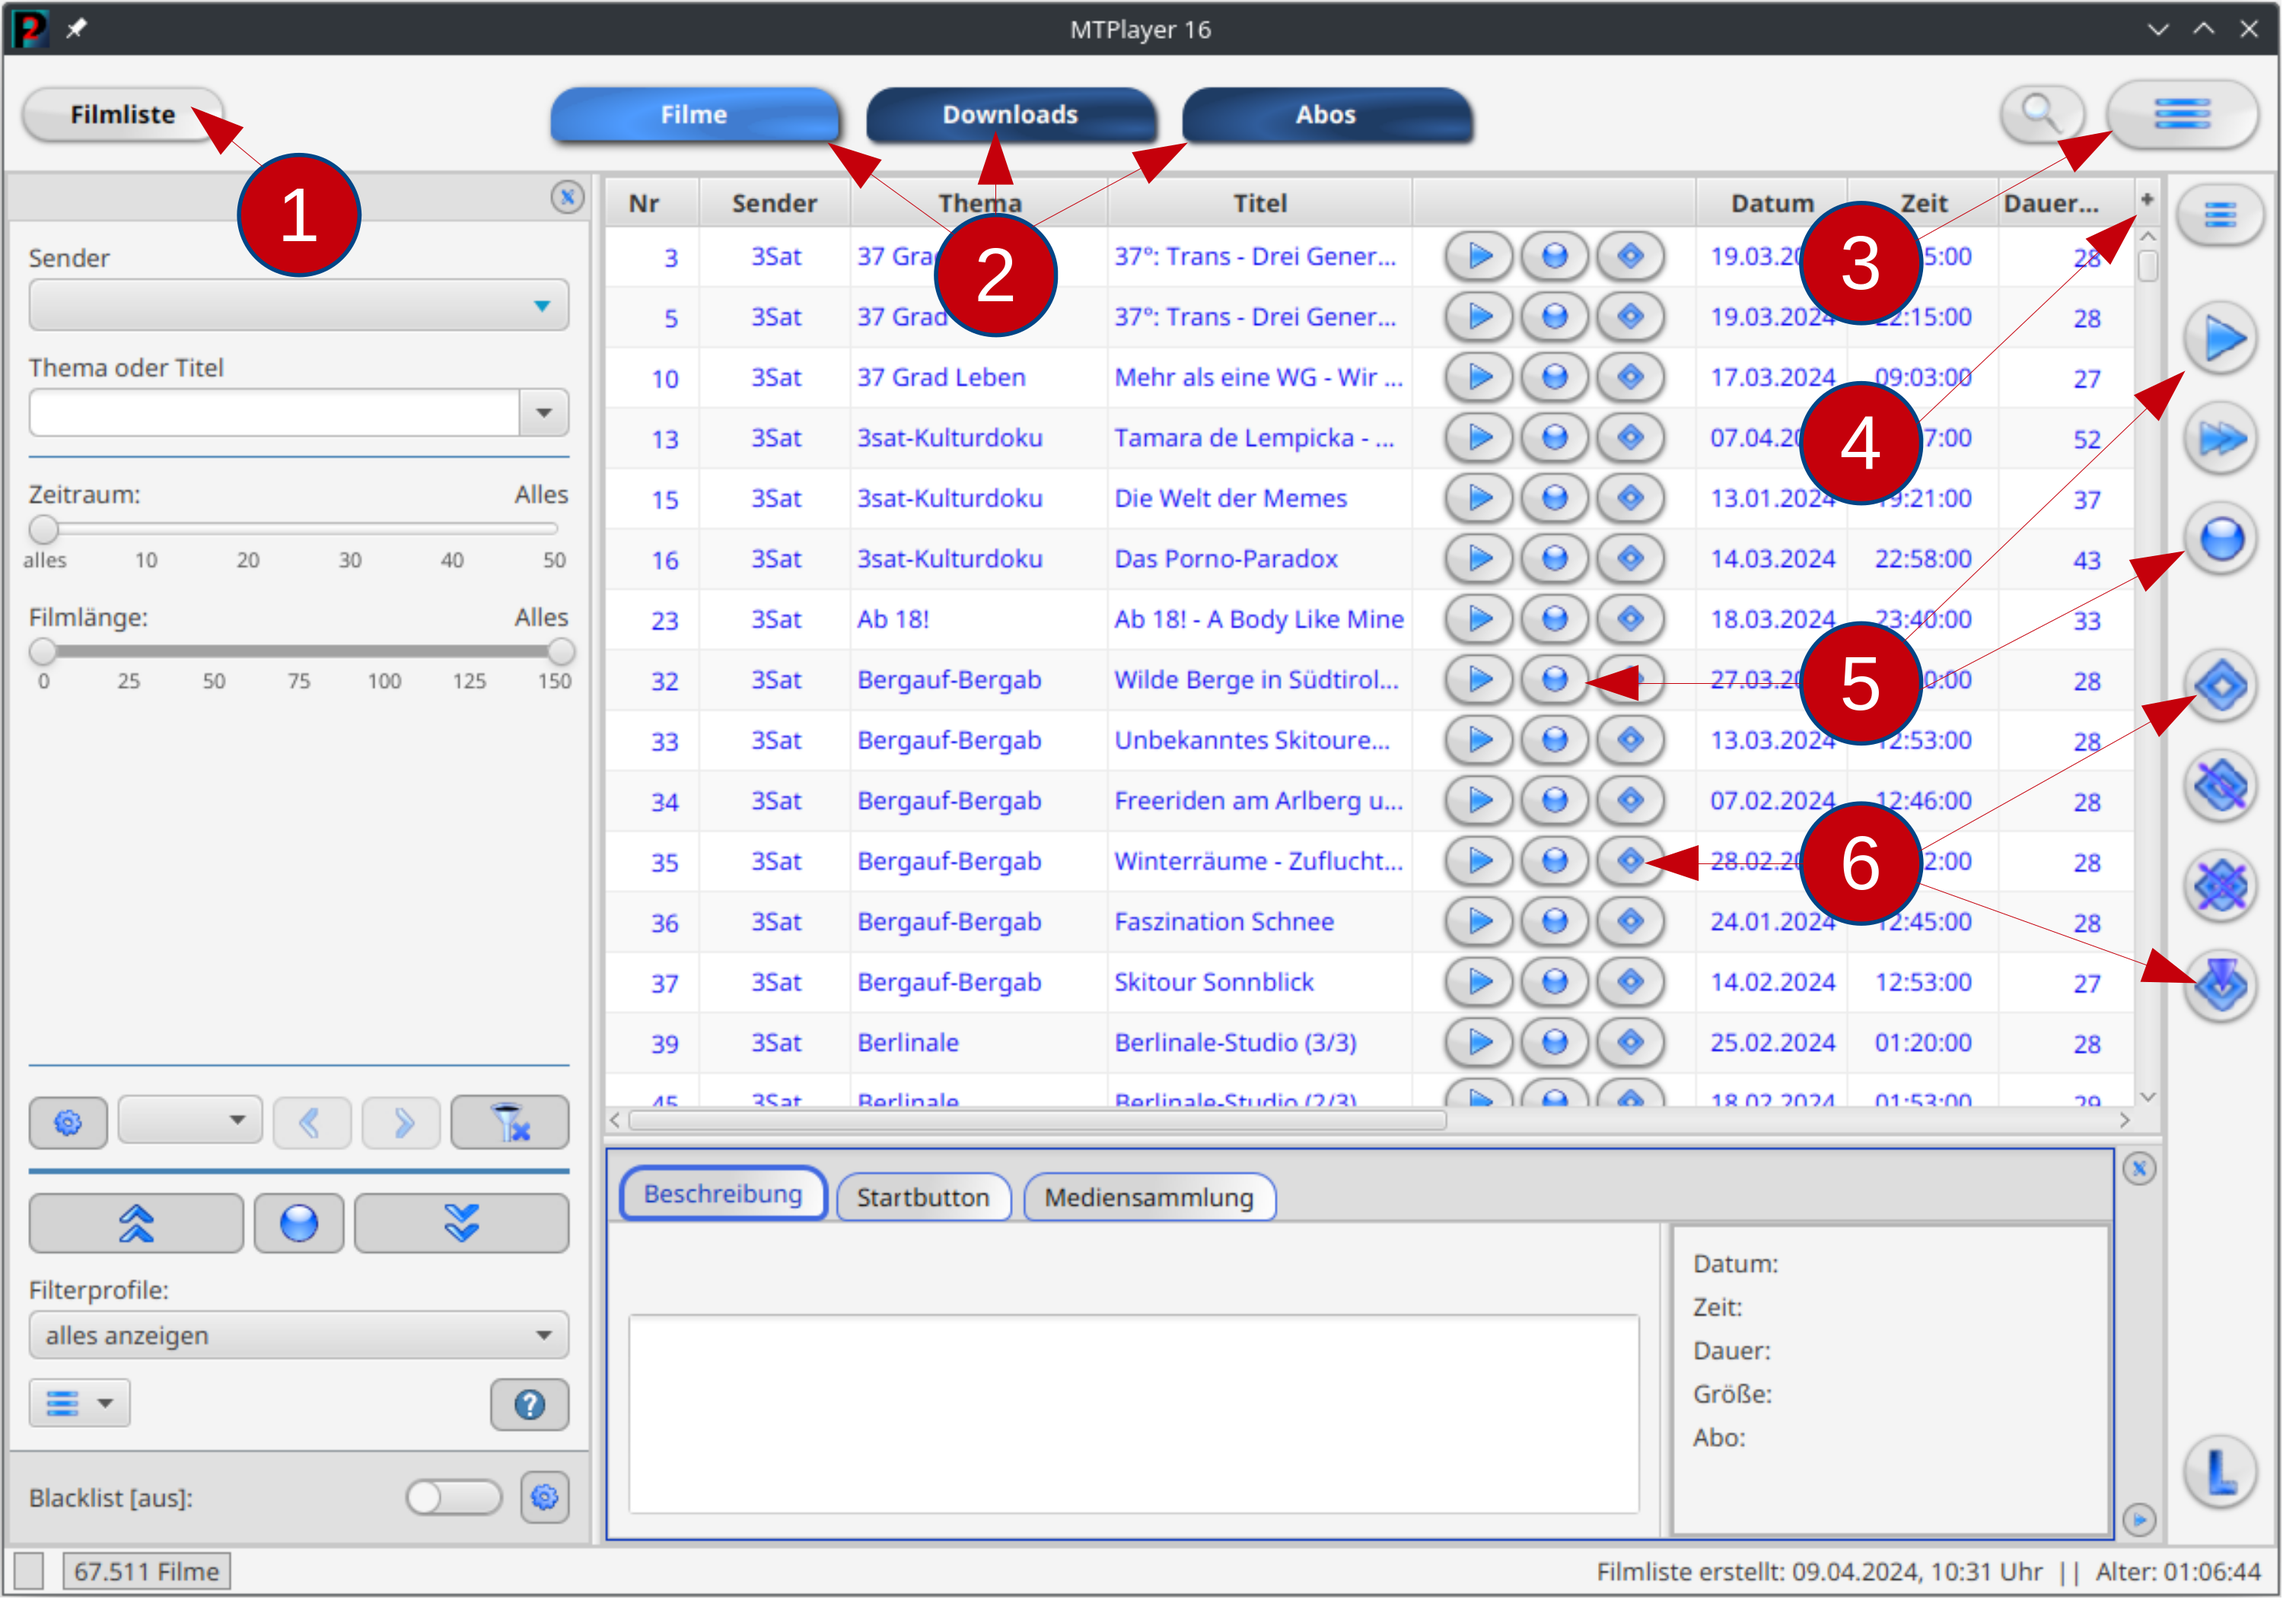
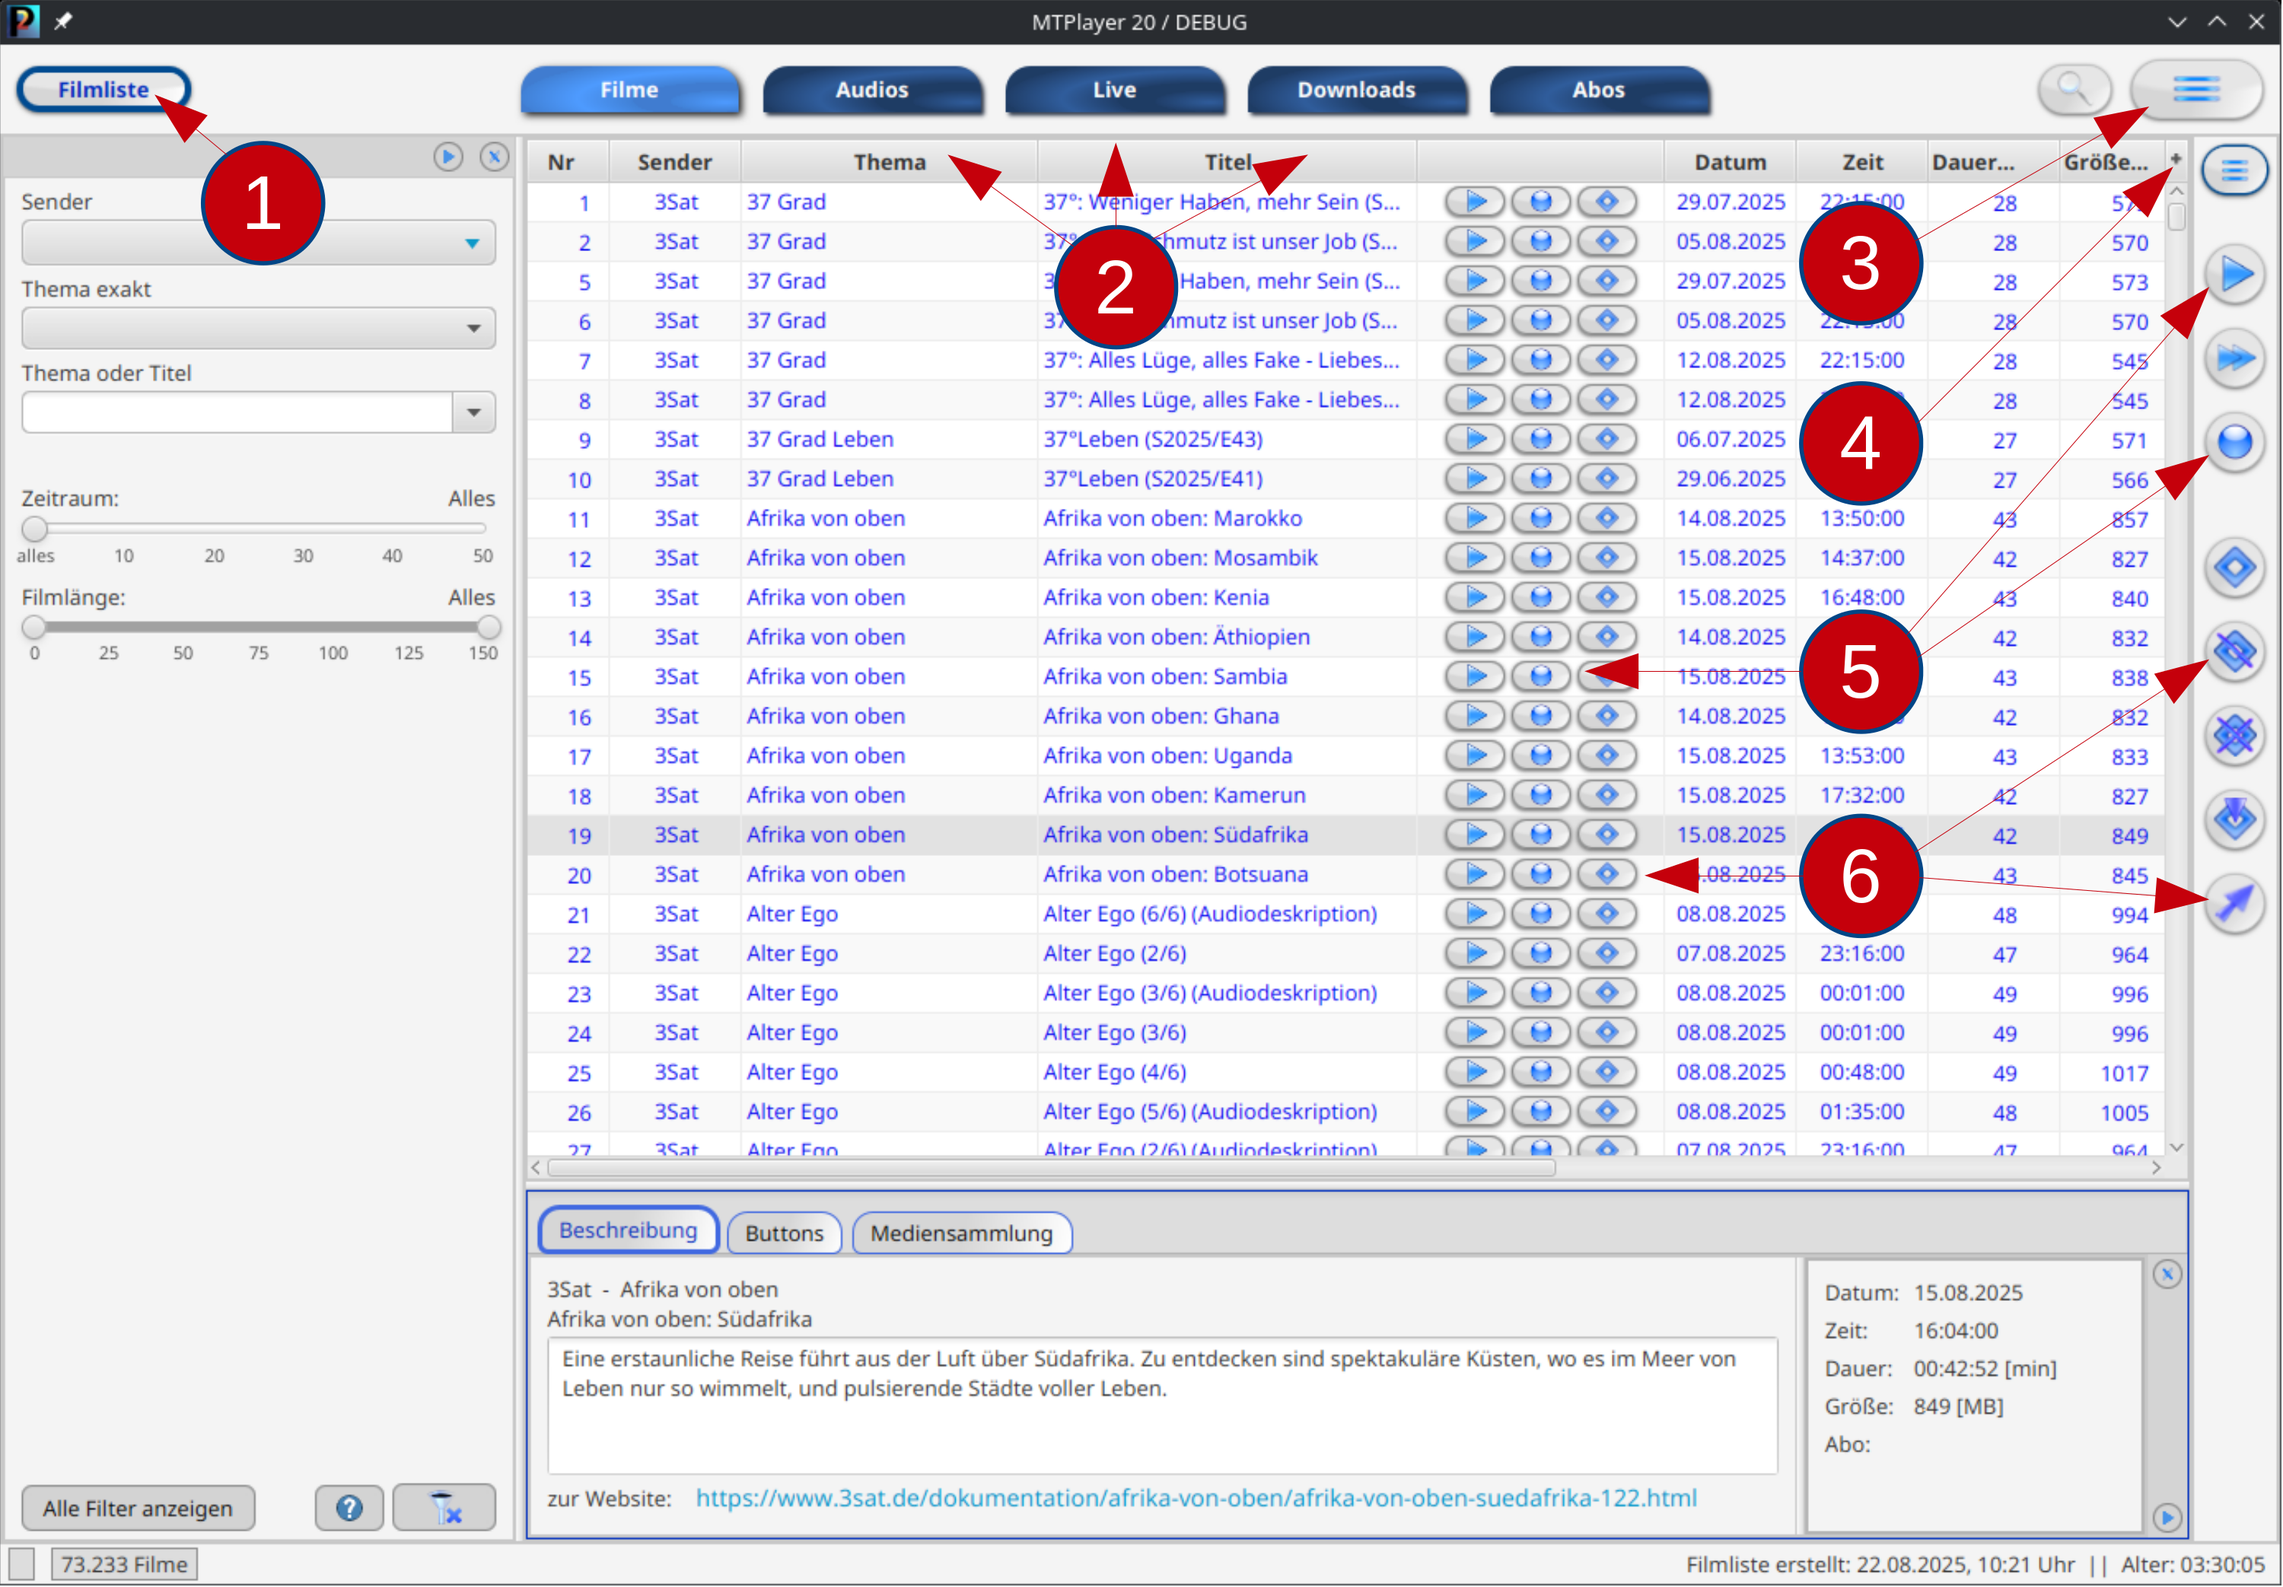
audiolist, startdialog

diff --git a/src/main/java/de/p2tools/mtplayer/gui/startdialog/StartPane.java b/src/main/java/de/p2tools/mtplayer/gui/startdialog/StartPane.java
@@ -47,8 +47,8 @@ public class StartPane {
                 "aktualisiert." +
 
                 P2LibConst.LINE_SEPARATORx2 +
-                "2) Die Ansicht der Filme, Downloads" + P2LibConst.LINE_SEPARATOR +
-                "oder Abos wird hier umgeschaltet." +
+                "2) Die Ansicht der Filme, Audios, Live-Suche," + P2LibConst.LINE_SEPARATOR +
+                "Downloads oder Abos wird hier umgeschaltet." +
 
                 P2LibConst.LINE_SEPARATORx2 +
                 "3) Hier befinden sich" + P2LibConst.LINE_SEPARATOR +
@@ -66,8 +66,9 @@ public class StartPane {
                 P2LibConst.LINE_SEPARATORx2 +
                 "6) Hier lassen sich einzelne Filme" + P2LibConst.LINE_SEPARATOR +
                 "vormerken, die Vormerkungen" + P2LibConst.LINE_SEPARATOR +
-                "wieder löschen und zuletzt werden" + P2LibConst.LINE_SEPARATOR +
-                "alle vorgemerkte Filme angezeigt.");
+                "wieder löschen, nur diese Anzeigen" + P2LibConst.LINE_SEPARATOR +
+                "und zuletzt öffnet sich ein Dialog" + P2LibConst.LINE_SEPARATOR +
+                "mit den markierten Filmen.");
 
         hBox.getChildren().add(text);
 
@@ -107,11 +108,7 @@ public class StartPane {
 
                         P2LibConst.LINE_SEPARATORx2 +
                         "5) Damit kann eine vereinfachte" + P2LibConst.LINE_SEPARATOR +
-                        "Suche ausgewählt werden." +
-
-                        P2LibConst.LINE_SEPARATORx2 +
-                        "6) Die Live-Suche kann " + P2LibConst.LINE_SEPARATOR +
-                        "damit ein- und ausgeblendet werden..");
+                        "Suche ausgewählt werden.");
 
         hBox.getChildren().add(text);
 

diff --git a/src/main/java/de/p2tools/mtplayer/gui/startdialog/StartPaneFilm.java b/src/main/java/de/p2tools/mtplayer/gui/startdialog/StartPaneFilm.java
@@ -68,8 +68,8 @@ public class StartPaneFilm {
         hBox.setPadding(new Insets(P2LibConst.PADDING));
         hBox.setMaxWidth(Double.MAX_VALUE);
         hBox.setMinHeight(Region.USE_PREF_SIZE);
-        Label lbl = new Label("Die Filmliste enthält inzwischen ~ 800_000 Filme. Davon sind etwa " +
-                "150_000 doppelt (z.B. ARD und BR). Es ist also eine gute Idee, die doppelten nicht zu laden " +
+        Label lbl = new Label("Die Filmliste enthält inzwischen ~ 700_000 Filme. Davon sind auch " +
+                "einige doppelt (z.B. ARD und BR). Es ist also eine gute Idee, die doppelten nicht zu laden " +
                 "und eventuell auch alte Filme nicht mehr zu laden. Auf älteren Rechnern ist " +
                 "die Suche dann schneller.");
         lbl.setWrapText(true);
@@ -89,7 +89,6 @@ public class StartPaneFilm {
 
         int row = 0;
         final P2ToggleSwitch tglRemove = new P2ToggleSwitch("Doppelte Filme beim Laden der Filmliste ausschließen");
-        ProgConfig.SYSTEM_FILMLIST_REMOVE_DOUBLE.setValue(Boolean.TRUE); // beim ersten Start wird angelegt
         tglRemove.setSelected(ProgConfig.SYSTEM_FILMLIST_REMOVE_DOUBLE.getValue());
         tglRemove.selectedProperty().addListener((u, o, n) -> ProgConfig.SYSTEM_FILMLIST_REMOVE_DOUBLE.setValue(tglRemove.isSelected()));
         gridPane.add(tglRemove, 0, row, 3, 1);

diff --git a/src/main/java/de/p2tools/mtplayer/gui/tools/HelpText.java b/src/main/java/de/p2tools/mtplayer/gui/tools/HelpText.java
@@ -820,14 +820,11 @@ public class HelpText {
                     "\n";
 
     public static final String LOAD_FILMLIST_ONLY_MARK_DOUBLE =
-            "In der Filmliste sind ~150.000 Filme doppelt enthalten (z.B. bei ARD und BR)." +
+            "In der Filmliste sind einige Filme doppelt enthalten (z.B. bei ARD und BR)." +
                     "\n\n" +
                     "Doppelte können bereits beim Laden der Filmliste ausgefiltert werden. Da die Filmliste " +
                     "inzwischen sehr lang ist, wäre das eine " +
                     "sehr gute Entscheidung. In den Einstellungen kann das auch wieder geändert werden." +
-//                    "\n\n" +
-//                    "Sie können die doppelten Filme aber auch im Programm mit einem Filter " +
-//                    "oder mit der Blacklist ausblenden." +
                     "\n";
 
     public static final String LOAD_FILMLIST_MARK_DOUBLE =
